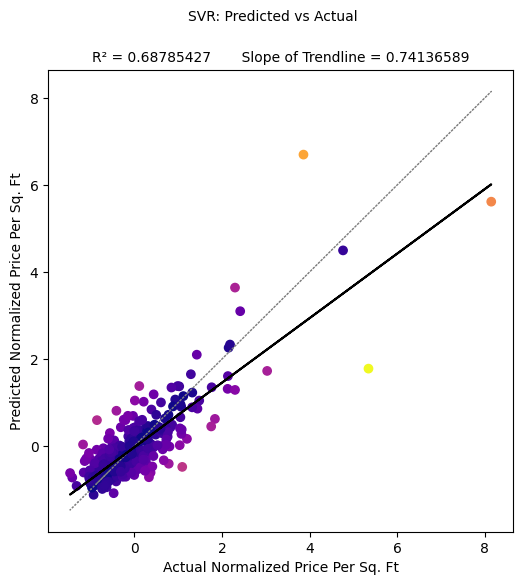
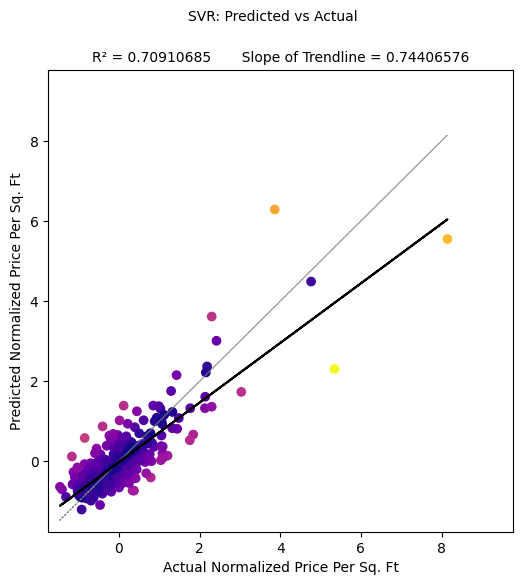
remove gridsearch from SVR

diff --git a/SVR.py b/SVR.py
@@ -14,9 +14,9 @@ y = ds.zillow.flatten()
 
 x_train, x_test, y_train, y_test = train_test_split(x, y, test_size=0.2, random_state=0)
 
-parameters = [{'kernel': ['rbf'], 'gamma': [1e-4, 1e-3, 0.01, 0.1, 0.2, 0.5, 0.6, 0.9],'C': [1, 10, 100, 1000, 10000]}]
-svr = GridSearchCV(svm.SVR(epsilon = 0.01), parameters, cv = 10)
-regr = svr.fit(x_train, y_train)
+#parameters = [{'kernel': ['rbf'], 'gamma': [1e-4, 1e-3, 0.01, 0.1, 0.2, 0.5, 0.6, 0.9],'C': [1, 10, 100, 1000, 10000]}]
+#svr = GridSearchCV(svm.SVR(epsilon = 0.01), parameters, cv = 10)
+regr = svm.SVR(kernel="rbf", C=10000, gamma=0.0001).fit(x_train, y_train)
 
 y_pred = regr.predict(x_test)
 plot_data = {
